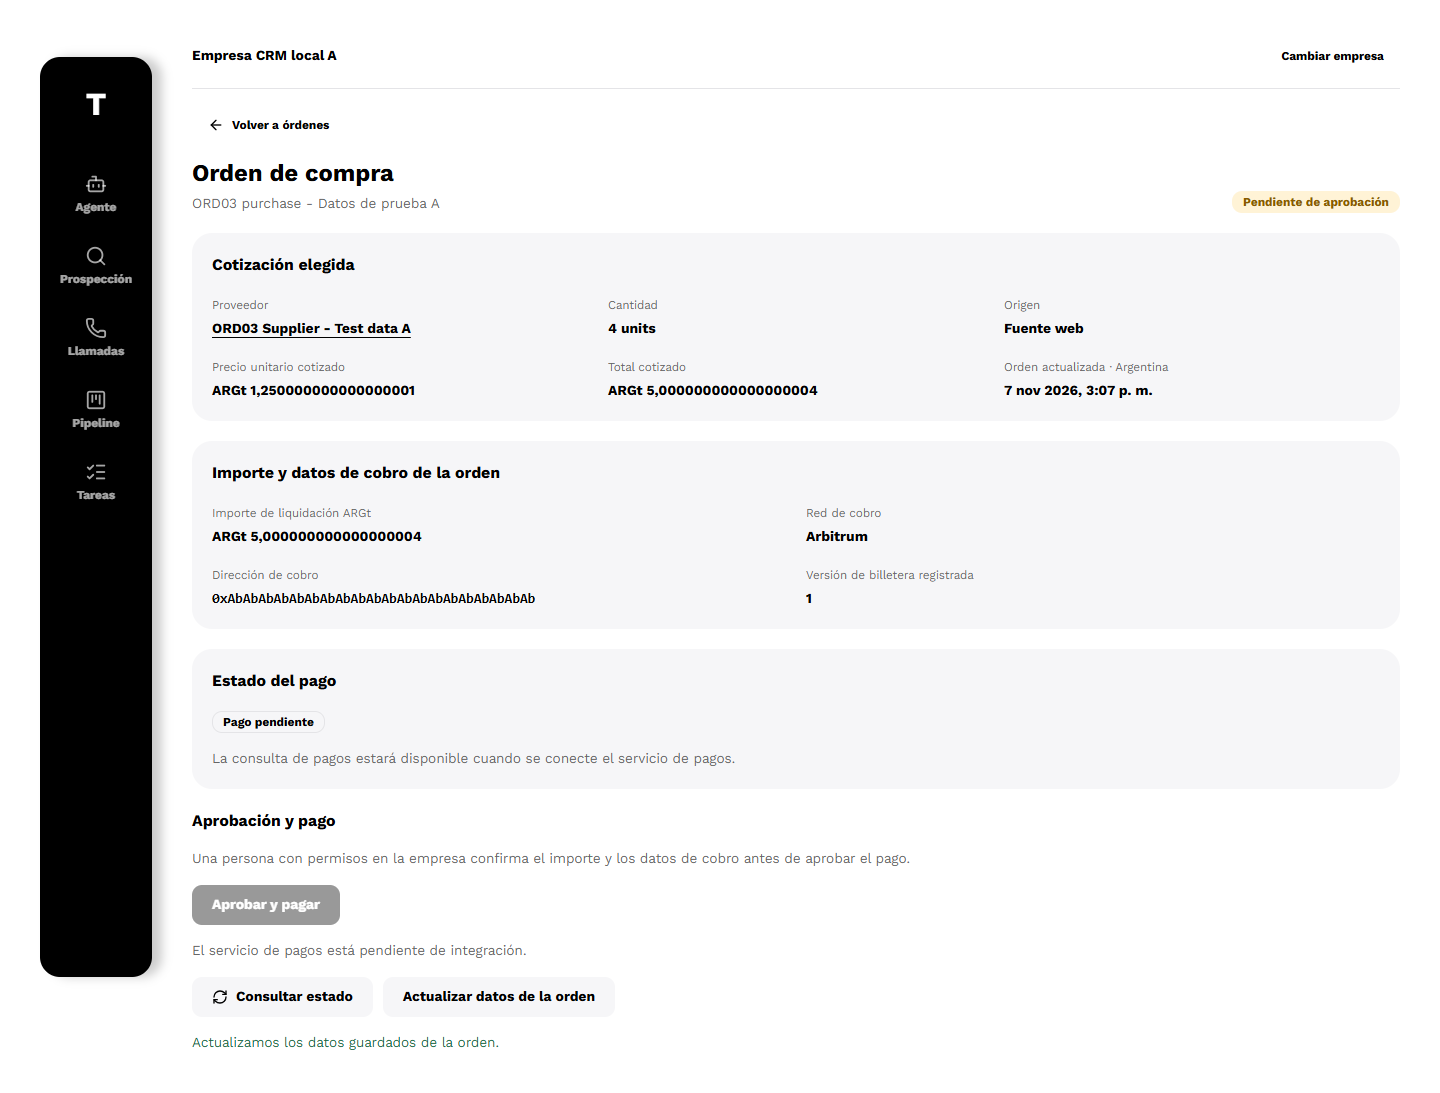
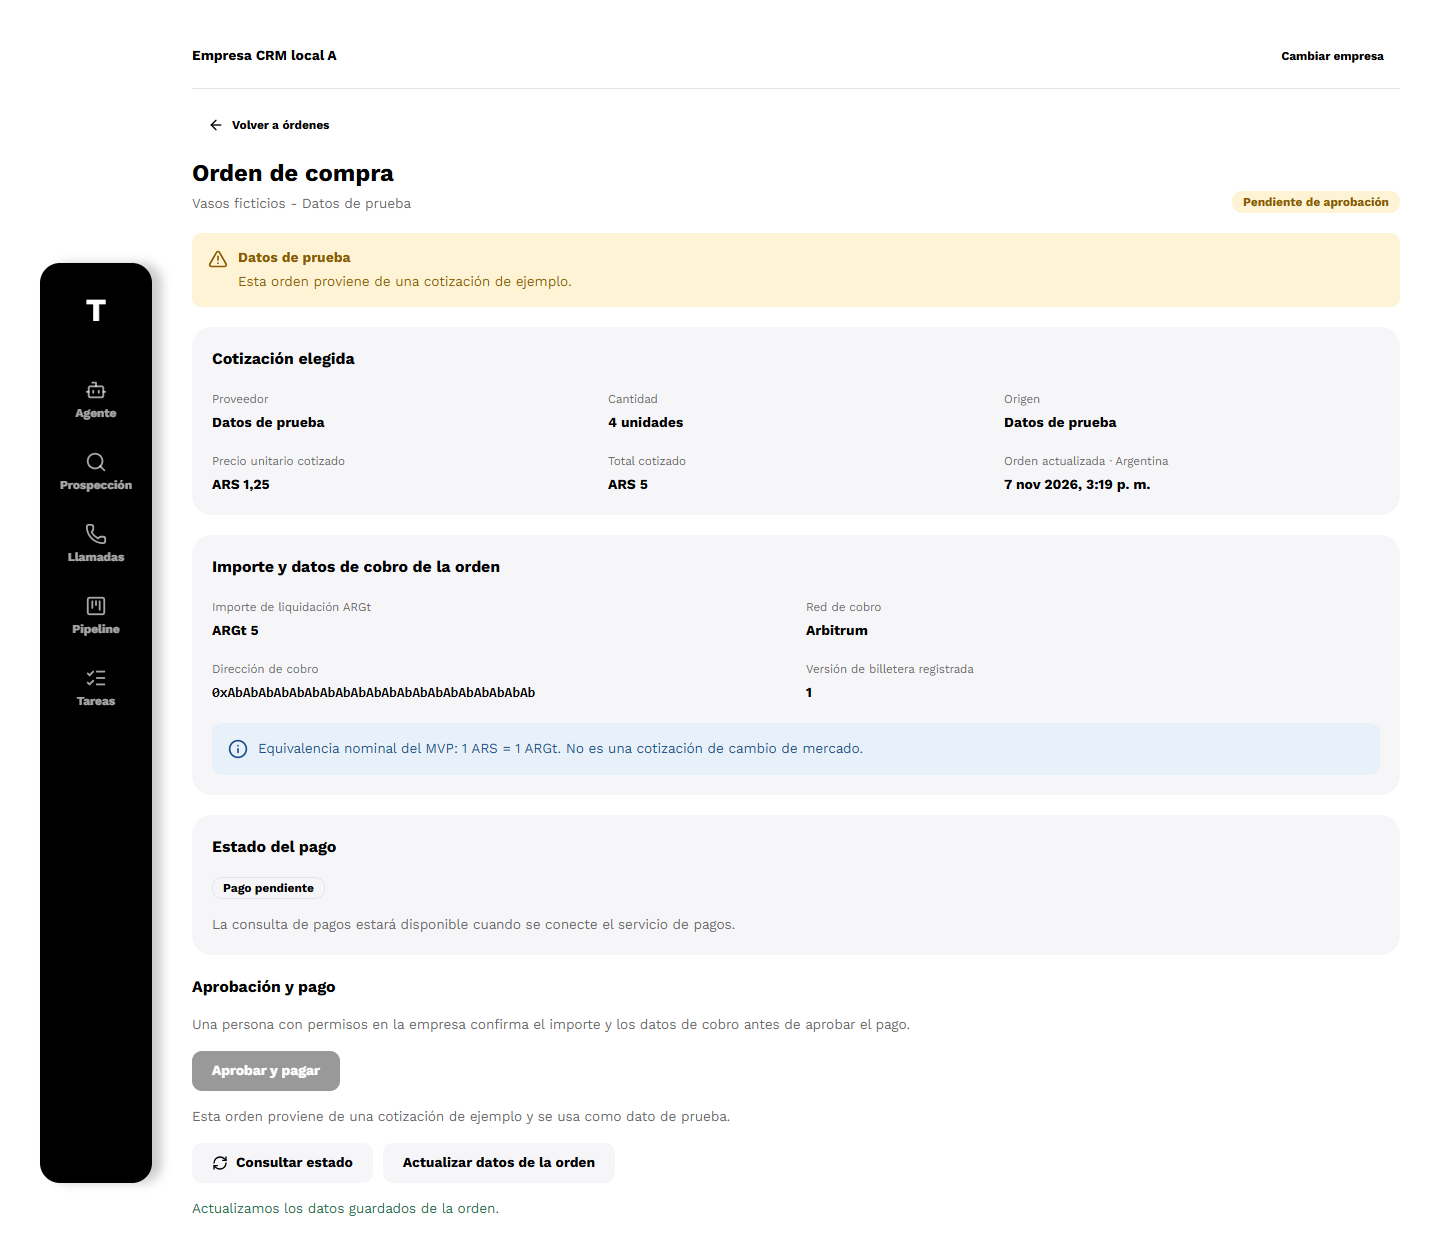
fix(TRA-76): aplicar equivalencia nominal ARS con importes exactos

diff --git a/src/contracts/purchase-orders.ts b/src/contracts/purchase-orders.ts
@@ -27,6 +27,7 @@ export const PurchaseOrderSchema = z.object({
   created_at: z.string().datetime(), updated_at: z.string().datetime(),
 }).strict().superRefine((order, ctx) => {
   if ((order.pricing_status === "ready") !== (order.amount_atomic !== null)) ctx.addIssue({ code: "custom", path: ["amount_atomic"], message: "El monto no coincide con el estado de liquidación" });
+  if (order.pricing_status === "ready" && order.quoted_currency === "USD") ctx.addIssue({ code: "custom", path: ["pricing_status"], message: "USD requiere una conversión definida" });
   if (order.status === "approved" && (!order.approved_by || !order.approved_at || order.wallet?.chain !== "arbitrum" || order.wallet_version < 1 || !order.amount_atomic || order.quote_source === "example")) ctx.addIssue({ code: "custom", path: ["status"], message: "La aprobación requiere monto, billetera Arbitrum vigente, fuente real y persona" });
   if (order.status === "awaiting_approval" && (order.approved_by !== null || order.approved_at !== null)) ctx.addIssue({ code: "custom", path: ["status"], message: "Una orden pendiente no tiene aprobación" });
 });
@@ -38,7 +39,7 @@ export type CreatePurchaseOrderInput = z.infer<typeof CreatePurchaseOrderInputSc
 export type GetPurchaseOrderInput = z.infer<typeof GetPurchaseOrderInputSchema>;
 export type ApprovePurchaseOrderInput = z.infer<typeof ApprovePurchaseOrderInputSchema>;
 export type RefreshPurchaseOrderInput = z.infer<typeof RefreshPurchaseOrderInputSchema>;
-export type PurchaseOrderListInput = z.infer<typeof PurchaseOrderListInputSchema>;
+export type PurchaseOrderListInput = z.input<typeof PurchaseOrderListInputSchema>;
 export type GetPurchaseOrder = (ctx: Ctx, input: GetPurchaseOrderInput) => Promise<Result<{ order: PurchaseOrder }>>;
 export type CreatePurchaseOrder = (ctx: ActionCtx, input: CreatePurchaseOrderInput) => Promise<Result<{ order: PurchaseOrder; created: boolean }>>;
 export type ApprovePurchaseOrder = (ctx: ActionCtx, input: ApprovePurchaseOrderInput) => Promise<Result<{ order: PurchaseOrder }>>;

diff --git a/src/features/crm/components/purchase-order-view.test.tsx b/src/features/crm/components/purchase-order-view.test.tsx
@@ -41,6 +41,23 @@ describe("ORD03: lectura de órdenes y aprobación humana", () => {
     expect(html).toContain(order.wallet!.address);
   });
 
+  it("ARS listo muestra el original y ARGt con equivalencia nominal explícita, sin habilitar PAY02", () => {
+    const html = renderToStaticMarkup(<PurchaseOrderView company={company} order={{ ...order, quoted_currency: "ARS" }} paymentAvailable={false} />);
+    expect(html).toContain("ARS 10,00");
+    expect(html).toContain("ARGt 10</span>");
+    expect(html).toContain("Equivalencia nominal del MVP: 1 ARS = 1 ARGt. No es una cotización de cambio de mercado.");
+    expect(html).toMatch(/<button[^>]*disabled[^>]*>Aprobar y pagar<\/button>/);
+  });
+
+  it("USD conserva su precio y conversión pendiente sin inventar una equivalencia", () => {
+    const usd = { ...order, quoted_currency: "USD" as const, pricing_status: "pending_conversion" as const, amount_atomic: null };
+    const html = renderToStaticMarkup(<PurchaseOrderView company={company} order={usd} paymentAvailable />);
+    expect(html).toContain("USD 10,00");
+    expect(html).toContain("Conversión pendiente");
+    expect(html).not.toContain("Equivalencia nominal del MVP");
+    expect(html).toMatch(/<button[^>]*disabled[^>]*>Aprobar y pagar<\/button>/);
+  });
+
   it("ejemplo está rotulado y no contiene enlaces a proveedor ficticio", () => {
     const html = renderToStaticMarkup(<PurchaseOrderView company={company} order={{ ...order, quote_source: "example" }} paymentAvailable />);
     expect(html).toContain("Datos de prueba");

diff --git a/src/features/crm/components/purchase-order-view.tsx b/src/features/crm/components/purchase-order-view.tsx
@@ -72,6 +72,9 @@ export function PurchaseOrderView({ company, order, payment, paymentAvailable }:
         <Datum label="Dirección de cobro">{order.wallet ? <span className="break-all font-mono">{order.wallet.address}</span> : "Sin dirección registrada en la orden"}</Datum>
         <Datum label="Versión de billetera registrada">{order.wallet_version}</Datum>
       </dl>
+      {order.quoted_currency === "ARS" && order.pricing_status === "ready" && <Alert tone="info">
+        Equivalencia nominal del MVP: 1 ARS = 1 ARGt. No es una cotización de cambio de mercado.
+      </Alert>}
       {order.pricing_status === "pending_conversion" && <Alert tone="info">El precio cotizado conserva su moneda. El importe ARGt requiere una conversión antes de aprobar el pago.</Alert>}
       {order.approved_at && <p className="text-xs text-ink-muted">Aprobada por una persona · {date.format(new Date(order.approved_at))}, horario de Argentina.</p>}
     </Card>

diff --git a/src/features/crm/components/purchase-order-client.test.ts b/src/features/crm/components/purchase-order-client.test.ts
@@ -25,7 +25,7 @@ describe("ORD03: importes y estados del pago", () => {
 
   it("deshabilita pago sin adapter, conversión, billetera, red compatible o fuente real", () => {
     expect(paymentBlockedReason(order, false)).toContain("pendiente de integración");
-    expect(paymentBlockedReason({ ...order, pricing_status: "pending_conversion", amount_atomic: null }, true)).toContain("conversión");
+    expect(paymentBlockedReason({ ...order, quoted_currency: "USD", pricing_status: "pending_conversion", amount_atomic: null }, true)).toContain("conversión");
     expect(paymentBlockedReason({ ...order, wallet: null }, true)).toContain("billetera");
     expect(paymentBlockedReason({ ...order, wallet: { chain: "arbitrum", address: `0x${"0".repeat(40)}` } }, true)).toContain("billetera");
     expect(paymentBlockedReason({ ...order, wallet: { ...order.wallet!, chain: "base" } }, true)).toContain("Arbitrum");

diff --git a/src/contracts/purchase-orders.test.ts b/src/contracts/purchase-orders.test.ts
@@ -21,6 +21,7 @@ describe("ORD-03 contrato mínimo de orden", () => {
   it("conserva ARS pendiente separado del importe ARGt", () => {
     expect(PurchaseOrderSchema.parse(pending)).toMatchObject({ quoted_total: "1250.00", amount_atomic: null, pricing_status: "pending_conversion" });
     expect(PurchaseOrderSchema.safeParse({ ...pending, pricing_status: "ready" }).success).toBe(false);
+    expect(PurchaseOrderSchema.safeParse({ ...pending, quoted_currency: "USD", pricing_status: "ready", amount_atomic: "1" }).success).toBe(false);
   });
   it("no acepta monto, destino o empresa suministrados al crear/aprobar", () => {
     expect(CreatePurchaseOrderInputSchema.parse({ supplier_quote_id: id })).toEqual({ supplier_quote_id: id });

diff --git a/src/features/crm/server/public.ts b/src/features/crm/server/public.ts
@@ -9,6 +9,8 @@ export const crmIntegration = {
   operations: {
     getContact: "persisted", upsertContact: "persisted", updateContact: "persisted", listContacts: "persisted",
     upsertSupplier: "persisted", updateSupplier: "persisted", getSupplier: "persisted", listSuppliers: "persisted", setSupplierWallet: "persisted",
+    createPurchaseOrder: "persisted", getPurchaseOrder: "persisted", listPurchaseOrders: "persisted",
+    refreshPurchaseOrder: "persisted", approvePurchaseOrder: "persisted",
     recordCallResult: "mock", scheduleFollowup: "mock", claimDueFollowups: "mock",
     completeFollowup: "mock", failFollowup: "mock",
   },

diff --git a/src/features/crm/database/PURCHASE-ORDERS.md b/src/features/crm/database/PURCHASE-ORDERS.md
@@ -10,13 +10,22 @@ modifica tablas de Agente o Voz.
 
 QUO-02 ya está integrado en main por PR #35 (`d83096a`, migración
 `20261107180000_add_supplier_quotes.sql`): ofrece `unit_price numeric(14,2)` y
-monedas `ARS`, `USD` o `unknown`. No ofrece precios ARGt ni una conversión
-acordada. Por tanto, con ese contrato, las órdenes ARS/USD quedan con
-`pricing_status: pending_conversion` y `amount_atomic: null`. La aprobación
-devuelve un error explícito. No se supone una equivalencia ARS/ARGt o USD/ARGt.
+monedas `ARS`, `USD` o `unknown`. Las órdenes ARS usan la convención de
+liquidación nominal **1 ARS = 1 ARGt** que ya publica
+[`pesosToAtomic`](../../../contracts/purchases.ts), la sección de compras del
+[`README de Agente`](../../agent/README.md) y el brief v3. Conservan el precio
+y moneda ARS originales, calculan `amount_atomic` exacto a escala 18 y quedan
+con `pricing_status: ready`. Esto aplica una regla del producto; no consulta ni
+afirma una cotización de mercado.
 
-La propuesta admite una futura cotización expresada explícitamente en ARGt.
-Calcula `unit_price × quantity × 10^18` con `numeric` exacto, exige un entero
+USD sigue con `pricing_status: pending_conversion` y `amount_atomic: null`:
+no hay una conversión acordada para esa moneda y no puede aprobarse para pagar.
+Una orden ARS antigua que haya quedado pendiente permanece intacta hasta que un
+admin ejecute `refreshPurchaseOrder` y vuelva a revisar su nueva versión.
+
+La propuesta también admite una futura cotización expresada directamente en
+ARGt. Para ARS nominal y ARGt calcula `unit_price × quantity × 10^18` con
+`numeric` exacto, exige un entero
 positivo menor que `2^256` y devuelve el resultado como string. Una fracción de
 unidad atómica o un desbordamiento se rechaza antes de guardar. Los precios
 originales y totales cotizados también se devuelven como strings decimales.
@@ -101,14 +110,19 @@ No instala la migración de Voz ni crea su tabla `calls`. Si ya existe una tabla
 de cotizaciones que no pertenece a ese fixture, se detiene y no la altera.
 Esta tabla auxiliar no demuestra que QUO-02 soporte ARGt.
 
-El 2026-11-07, PostgreSQL **17.11** aprobó **60 comprobaciones, exit 0**:
-concurrencia/idempotencia de creación y aprobación; decimal exacto ARS/USD;
+El 2026-11-07, PostgreSQL **17.11** aprobó **64 comprobaciones, exit 0**:
+concurrencia/idempotencia de creación y aprobación; ARS nominal 1:1 con centavos
+exactos a escala 18 y aprobación humana; USD pendiente sin conversión;
+ARS histórico pendiente recuperado únicamente con actualización explícita;
 ARGt de 18 decimales, uint256 máximo, rechazo de desbordamiento/subunidad;
 snapshots desactualizados y recuperación explícita; política/allowlist/budget;
 billetera, fuente y disponibilidad; admin/membresía antes del caché; RLS/ACL;
 compatibilidad DTO; rollback conjunto e insert fallido forzado. El trigger de
 fallo y todos los registros aleatorios de cada ejecución se limpian al terminar;
-se preservan tablas y datos anteriores.
+se preservan tablas y datos anteriores. La corrección local de la propuesta
+validó los cuerpos `prosrc` de sus dos funciones y la definición/nombre de su
+constraint anterior antes de reemplazarlos. El hash de todas las filas
+preexistentes permaneció idéntico; una orden ARS histórica siguió pendiente.
 
 El fixture HTTP de QA añade únicamente la RPC `orders_execute` a su lista
 permitida. Auth/PostgREST son sustitutos locales sobre PostgreSQL real. No

diff --git a/src/features/crm/verification/PURCHASE-ORDERS-BROWSER.md b/src/features/crm/verification/PURCHASE-ORDERS-BROWSER.md
@@ -1,20 +1,24 @@
 # ORD-03 · Verificación local de órdenes
 
-El 2026-11-07, `verify-purchase-orders-app.mjs` terminó con **exit 0 y 25
+El 2026-11-07, `verify-purchase-orders-app.mjs` terminó con **exit 0 y 26
 comprobaciones aprobadas**, sin errores JavaScript ni solicitudes externas del
 navegador. La creación, deduplicación, consulta y actualización usan PostgreSQL
 17.11 real y Auth/PostgREST sustituidos por HTTP local. No prueba Supabase
 alojado, cotizaciones de proveedores reales ni pagos onchain.
 
-El escenario incluye cotizaciones explícitamente ficticias y una tabla auxiliar
-de QUO-02 con moneda ARGt futura, que el contrato actual de Voz no ofrece. El
-camino ARS/USD real permanece pendiente de conversión. No se firmó ni transmitió
-ninguna transacción; el puerto de Pagos estaba ausente/deshabilitado.
+El escenario usa cotizaciones explícitamente ficticias de ARS y USD compatibles
+con el modelo actual de QUO-02. ARS 1,25 por 4 unidades produce ARS 5 cotizados
+y ARGt 5 nominales, conservando ambos importes y mostrando la equivalencia.
+USD permanece pendiente de conversión. La base local contiene una tabla
+auxiliar ampliada para las pruebas SQL futuras de ARGt directo; este recorrido
+de navegador no usa esa ampliación. No se firmó ni transmitió ninguna transacción;
+el puerto de Pagos estaba ausente/deshabilitado.
 
 Se verificó:
 
 - Sesión y empresa antes de leer órdenes; ocultación de una orden de otra empresa.
 - Creación solo desde `supplier_quote_id`, rechazo de importes inyectados y CSRF.
+- Cálculo nominal ARS→ARGt exacto y aviso visible que no lo atribuye al mercado.
 - Repetición del mismo `action_id` y otra acción sobre la misma cotización sin
   generar otra orden.
 - Pago deshabilitado: HTTP 503 sin cambiar aprobación ni versión, botón inactivo
@@ -30,15 +34,17 @@ navegación de compras corresponde a ORD-04.
 
 La primera ejecución del script falló por esperar un texto de confirmación que
 no coincidía con el componente. Se corrigió el selector y la ejecución completa
-posterior aprobó las 25 comprobaciones. No fue un fallo de actualización de la
+posterior aprobó las comprobaciones. El recorrido final con ARS nominal aprobó
+las 26. No fue un fallo de actualización de la
 orden.
 
 Para reproducir, preparar la base aislada según
 [`../database/PURCHASE-ORDERS.md`](../database/PURCHASE-ORDERS.md), iniciar el
-fixture HTTP con el escenario `config.ord03` y construir Next. Con ese fixture
-activo, ejecutar:
+fixture HTTP y construir Next. Con ese fixture activo, crear una vez el escenario
+propio (si `config.ord03` ya existe, conservarlo y omitir el seed), luego ejecutar:
 
 ```powershell
+node src/features/crm/verification/seed-purchase-orders-app.mjs
 node src/features/crm/verification/start-contacts-test-app.mjs
 # En otra terminal:
 node src/features/crm/verification/verify-purchase-orders-app.mjs

diff --git a/src/features/crm/ORD03-INTEGRATION.md b/src/features/crm/ORD03-INTEGRATION.md
@@ -27,8 +27,15 @@ Tomás consume la lectura; no recibe destino ni monto desde el navegador.
 | `approved_by`, `approved_at` | UUID de la persona y fecha ISO UTC; ambos null mientras espera aprobación |
 | `created_at`, `updated_at` | ISO UTC |
 
-ARS/USD quedan `pending_conversion` con `amount_atomic: null`: **no habilitan
-pago ni conversión 1:1 implícita**. La cotización y compra se leen del servidor;
+ARS usa la equivalencia nominal ya publicada por BUY-01/02 en
+`src/contracts/purchases.ts` (`pesosToAtomic`): **1 ARS = 1 ARGt nominal** para
+este MVP, sin afirmar una cotización de mercado. SQL conserva el precio ARS y
+calcula el total en unidades ARGt de 18 decimales con aritmética decimal exacta,
+incluidos centavos, sin pasar por `number`. La ficha muestra la equivalencia y
+el importe explícito para revisión humana. USD queda `pending_conversion` con
+`amount_atomic: null`, sin inventar un cambio. Una orden ARS antigua pendiente
+puede actualizarse mediante `refreshPurchaseOrder`, con una nueva revisión.
+La cotización y compra se leen del servidor;
 la creación no acepta cantidad, precio, destino o empresa adicionales del cliente.
 Cada mutación conserva `action_id`; su recibo y cambio son transaccionales.
 La aprobación comprueba `expected_version` bajo bloqueo y exige monto y billetera.
